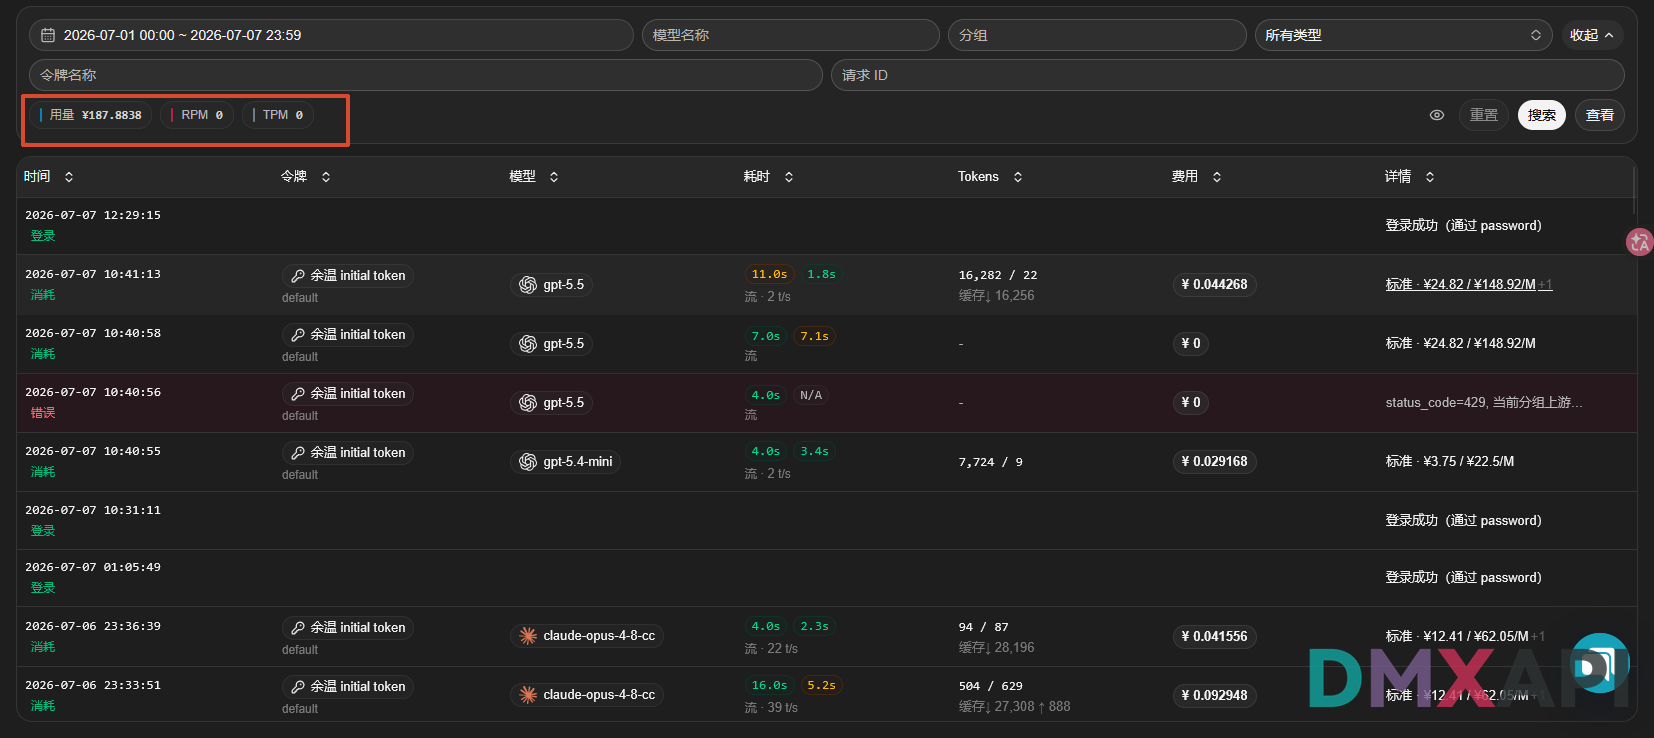
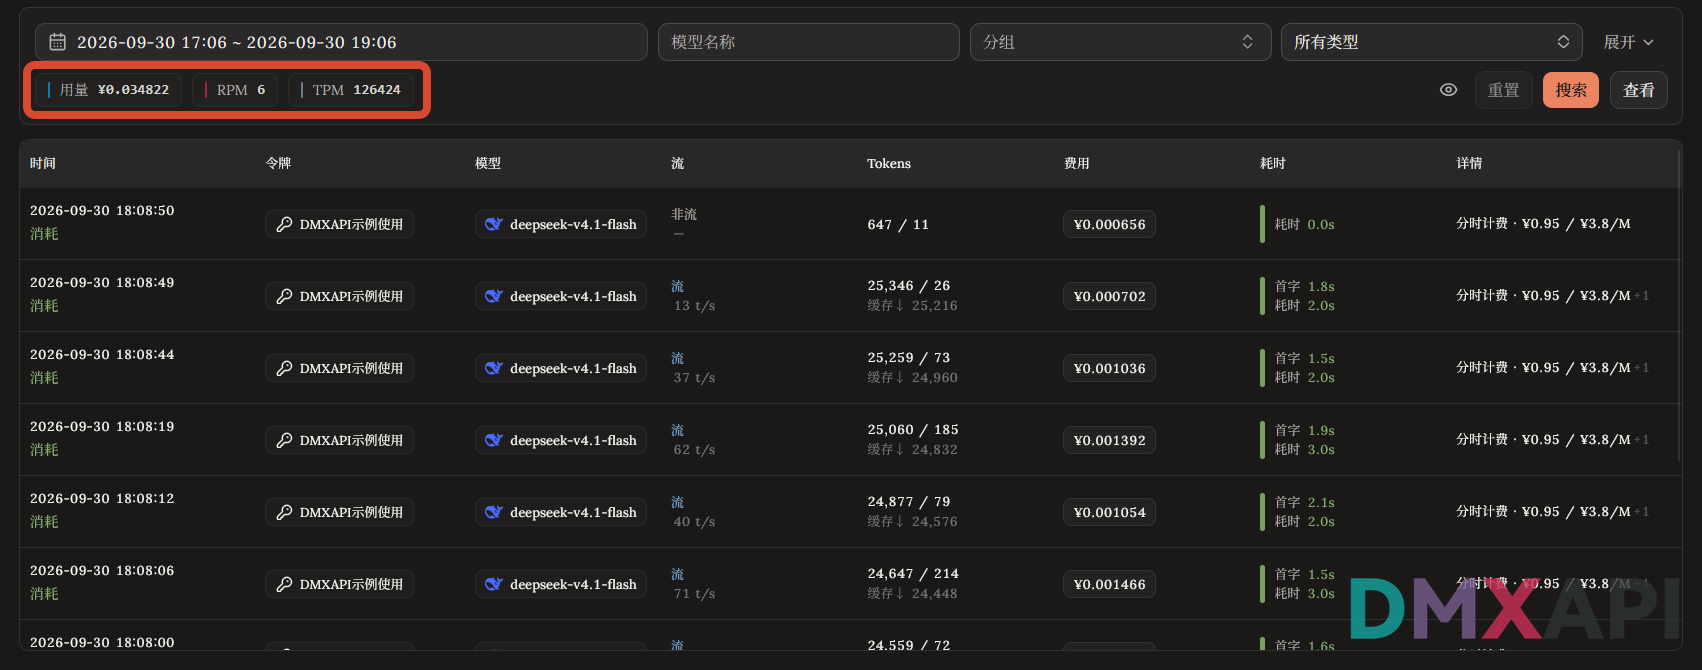
docs: 更新令牌与日志相关接口文档说明
- 统一时间格式去除时区后缀
- 精简重复的认证说明并修正获取路径
- 移除已废弃的 MPM 指标字段
- 补充接口功能描述与分页说明

diff --git a/log_query.md b/log_query.md
@@ -1,5 +1,7 @@
 # 总消耗 日志查询
 
+使用该接口将返回指定时间范围内的 API 总消耗统计，包括总消耗额度、每分钟请求数（RPM）、每分钟 Token 数（TPM）指标。
+
 ## 总消耗查询内容在DMXAPI的位置
 
 ![log_query](img/log_query_01.png)
@@ -11,7 +13,7 @@ https://www.dmxapi.cn/api/log/self/stat
 ```
 
 ::: warning 日志接口认证格式
-`Authorization` 直接填写 `SYSTEM_TOKEN`，不带 `Bearer` 前缀；这与令牌管理接口不同。
+需要填写系统令牌，`Authorization` 直接填写 `SYSTEM_TOKEN`，不带 `Bearer` 前缀；这与令牌管理接口不同。
 :::
 
 ## 代码示例
@@ -21,7 +23,7 @@ https://www.dmxapi.cn/api/log/self/stat
                            API 总消耗统计查询工具
 ================================================================================
 功能描述: 查询 dmxapi.cn 平台的 API 使用统计数据，包括总消耗额度、
-         请求频率(RPM)、Token消耗(TPM)、消息数量(MPM)等指标。
+         请求频率(RPM)、Token消耗(TPM)等指标。
 使用方法:
     1. 配置 SYSTEM_TOKEN 和 USER_ID
     2. 运行脚本: python 总消耗查询.py
@@ -31,7 +33,6 @@ https://www.dmxapi.cn/api/log/self/stat
     - quota : 总消耗额度
     - rpm   : Requests Per Minute  - 每分钟请求数
     - tpm   : Tokens Per Minute    - 每分钟 Token 消耗数
-    - mpm   : Messages Per Minute  - 每分钟消息数
 
 ================================================================================
 """
@@ -48,7 +49,7 @@ BASE_URL = "https://www.dmxapi.cn"
 # 认证信息配置 (请替换为你自己的信息)
 # ------------------------------------------------------------------------------
 # SYSTEM_TOKEN: 系统访问令牌，用于平台管理接口认证
-#               获取方式: 登录 dmxapi.cn -> 个人资料 -> 安全 -> 访问令牌
+#               获取方式: 登录 dmxapi.cn -> 安全与访问 -> 访问令牌
 SYSTEM_TOKEN = "YOUR_SYSTEM_TOKEN"  # 替换为你的系统令牌
 
 # USER_ID: 用户唯一标识
@@ -98,8 +99,7 @@ def get_stat_data(start_timestamp: int, end_timestamp: int, log_type: int = 0,
               {
                   "quota": int,  # 总消耗额度 
                   "rpm": int,    # 每分钟请求数
-                  "tpm": int,    # 每分钟 Token 数
-                  "mpm": int     # 每分钟消息数
+                  "tpm": int     # 每分钟 Token 数
               }
               请求失败时返回空字典 {}
 
@@ -158,7 +158,7 @@ def print_stat(data: dict, start_datetime: datetime, end_datetime: datetime):
 
     Args:
         data (dict):           API 返回的统计数据字典
-                               必须包含: quota, rpm, tpm, mpm 字段
+                               必须包含: quota, rpm, tpm 字段
         start_datetime (datetime): 查询开始时间
         end_datetime (datetime):   查询结束时间
 
@@ -176,7 +176,6 @@ def print_stat(data: dict, start_datetime: datetime, end_datetime: datetime):
         --------------------------------------------------
           每分钟请求数 (RPM): XXX
           每分钟Token数 (TPM): XXXXXXX
-          每分钟消息数 (MPM): XXXXXXX
         ==================================================
     """
     # -------------------------------------------------------------------------
@@ -210,7 +209,6 @@ def print_stat(data: dict, start_datetime: datetime, end_datetime: datetime):
     print("-" * 50)
     print(f"  每分钟请求数 (RPM): {data.get('rpm', 0)}")
     print(f"  每分钟Token数 (TPM): {data.get('tpm', 0)}")
-    print(f"  每分钟消息数 (MPM): {data.get('mpm', 0)}")
     print("=" * 50)
 
 
@@ -320,7 +318,6 @@ if __name__ == "__main__":
 --------------------------------------------------
   每分钟请求数 (RPM): 0
   每分钟Token数 (TPM): 0
-  每分钟消息数 (MPM): 0
 ==================================================
 ```
 

diff --git a/log_query_all.md b/log_query_all.md
@@ -1,6 +1,6 @@
 # 消耗细化查询
 
-获取当前账号指定时间范围内的 API 消费日志，包括令牌、模型、Token、人民币消耗、耗时和请求 ID。请求发送到 DMXAPI 代理平台的管理接口；脚本固仅查用户消费日志并以一次性获取时间范围内的全部记录，不做分页截断，再生成包含汇总表和逐条详情的 TXT 报告。
+获取当前账号指定时间范围内的 API 消费日志，包括令牌、模型、Token、人民币消耗、耗时和请求 ID。请求发送到 DMXAPI 代理平台的管理接口；脚本仅查询用户消费日志，一次性获取时间范围内的全部记录，不做分页截断，并生成包含汇总表和逐条详情的 TXT 报告。
 
 ## 总消耗查询内容在DMXAPI的位置
 
@@ -12,10 +12,8 @@
 https://www.dmxapi.cn/api/log/self
 ```
 
-- 请求方式：`GET`
-
-:::warning 认证格式
-本接口通过 `Authorization: Bearer {SYSTEM_TOKEN}` 认证,`SYSTEM_TOKEN` 的获取方式详见 [系统令牌与用户 ID](security_token_ID.md)。请不要在公开代码、截图、日志或客户端输出中暴露真实令牌，运行代码前必须替换为自己的令牌。
+:::warning 需要系统令牌
+本接口通过 `Authorization: Bearer {SYSTEM_TOKEN}` 认证，需配合 Bearer 前缀使用，`SYSTEM_TOKEN` 的获取方式详见 [系统令牌与用户 ID](security_token_ID.md)。请不要在公开代码、截图、日志或客户端输出中暴露真实令牌，运行代码前必须替换为自己的令牌。
 :::
 
 ## 代码示例
@@ -23,9 +21,9 @@ https://www.dmxapi.cn/api/log/self
 |------|------|------|
 | `today` | 今天 `00:00:00` | 今天 `23:59:59` |
 | `yesterday` | 昨天 `00:00:00` | 昨天 `23:59:59` |
-| `week` | 最近 7 天（含今天）起 `00:00:00` | 今天 `23:59:59` |
-| `month` | 最近 30 天（含今天）起 `00:00:00` | 今天 `23:59:59` |
-| `custom` | `CUSTOM_START_TIME` | `CUSTOM_END_TIME` |
+| `week` | 七天前 `00:00:00` | 今天 `23:59:59` |
+| `month` | 三十天前 `00:00:00` | 今天 `23:59:59` |
+| `custom` | 自定义开始时间 | 自定义结束时间 |
 
 ### 请求代码
 
@@ -42,7 +40,7 @@ import requests
 
 
 # 只需修改这里
-ACCESS_TOKEN = "***********************************************"  # 系统令牌 SYSTEM_TOKEN（需配合 Bearer 前缀使用）
+ACCESS_TOKEN = "***********************************************"  # 系统令牌 SYSTEM_TOKEN
 QUERY_MODE = "month"  # 默认最近 30 天；也可选 today、yesterday、week、custom
 CUSTOM_START_TIME = "2025-01-01 00:00:00"  # custom 模式的开始时间
 CUSTOM_END_TIME = "2025-01-01 23:59:59"  # custom 模式的结束时间
@@ -186,7 +184,7 @@ def build_details(report_logs: list[dict]) -> str:
     for index, item in enumerate(report_logs, start=1):
         created_at = item.get("created_at", 0)
         created_at_detail = (
-            datetime.fromtimestamp(created_at).astimezone().strftime("%Y-%m-%d %H:%M:%S %z")
+            datetime.fromtimestamp(created_at).astimezone().strftime("%Y-%m-%d %H:%M:%S")
             if created_at
             else "无记录"
         )

diff --git a/Search_token.md b/Search_token.md
@@ -1,6 +1,6 @@
 # 搜索令牌
 
-按后台令牌列表中的名称或完整 API Key 查找令牌，并显示完整 API Key、状态、额度和时间信息。名称查询搜索的是**令牌名称**，不是模型名称或模型 ID。
+按后台令牌列表中的名称或完整 API Key 查找令牌，并显示令牌名称、状态、API 密钥（完整 Key）、剩余额度、消耗额度、模型限制、IP 限制、创建时间、最后使用时间、过期时间等令牌信息。名称查询搜索的是**令牌名称**，不是模型名称或模型 ID。
 
 ::: danger 本示例会显示完整 API Key
 脚本会在终端直接输出完整 API Key。请只在可信的本地设备运行，不要截图、分享或写入日志。
@@ -12,9 +12,6 @@
 GET   https://www.dmxapi.cn/api/token/
 POST  https://www.dmxapi.cn/api/token/{token_id}/key
 ```
-
-- 认证：`SYSTEM_TOKEN` + `USER_ID`，详见 [系统令牌与用户 ID](security_token_ID.md)
-- 搜索内容只用于本地筛选
 
 ## 两种查询方式
 
@@ -46,7 +43,7 @@ if not search_value:
 
 def time_text(value):
     return "永不过期" if value == -1 else (
-        datetime.fromtimestamp(value).astimezone().strftime("%Y-%m-%d %H:%M:%S %z")
+        datetime.fromtimestamp(value).astimezone().strftime("%Y-%m-%d %H:%M:%S")
         if value else "无记录"
     )
 
@@ -124,8 +121,8 @@ API 密钥：<此处会显示第一个完整 API Key>
 消耗额度：0.0000 CNY
 模型限制：无限制
 IP 限制：无限制
-创建时间：2026-07-27 10:00:00 +0800
-最后使用时间：2026-07-27 10:15:00 +0800
+创建时间：2026-07-27 10:00:00
+最后使用时间：2026-07-27 10:15:00
 过期时间：永不过期
 ----------------------------------------
 令牌名称：DMXAPI创建测试
@@ -136,9 +133,9 @@ API 密钥：<此处会显示第二个完整 API Key>
 消耗额度：1.0000 CNY
 模型限制：gpt-5.5,claude-sonnet-4-20250514
 IP 限制：203.0.113.10、198.51.100.0/24
-创建时间：2026-07-27 10:05:00 +0800
+创建时间：2026-07-27 10:05:00
 最后使用时间：无记录
-过期时间：2026-08-26 10:05:00 +0800
+过期时间：2026-08-26 10:05:00
 ----------------------------------------
 ```
 

diff --git a/key-yuer.md b/key-yuer.md
@@ -1,6 +1,6 @@
 # 查询令牌余额
 
-填写 DMXAPI API Key、系统访问令牌和用户 ID。脚本会读取令牌并查找匹配项，只显示令牌名称、状态、已用额度、剩余额度。
+填写 DMXAPI API Key、系统访问令牌和用户 ID。脚本会读取令牌并查找匹配项，只显示令牌名称、状态、已用额度、剩余额度和过期时间。
 
 ::: warning 凭据需要属于同一账号
 完整 API Key 只在本地转换为脱敏形式，不会作为查询参数发送。
@@ -9,11 +9,8 @@
 ## 📌 接口地址
 
 ```
-https://www.dmxapi.cn/api/token/
+GET   https://www.dmxapi.cn/api/token/
 ```
-
-- 请求方式：`GET`
-- 认证：`SYSTEM_TOKEN` + `USER_ID`，详见 [系统令牌与用户 ID](security_token_ID.md)
 
 ## Python 示例
 
@@ -35,7 +32,7 @@ headers = {
 
 def time_text(value):
     return "永不过期" if value == -1 else (
-        datetime.fromtimestamp(value).astimezone().strftime("%Y-%m-%d %H:%M:%S %z")
+        datetime.fromtimestamp(value).astimezone().strftime("%Y-%m-%d %H:%M:%S")
         if value else "无记录"
     )
 

diff --git a/Batch_token_deletion.md b/Batch_token_deletion.md
@@ -13,9 +13,6 @@ GET   https://www.dmxapi.cn/api/token/
 POST  https://www.dmxapi.cn/api/token/batch
 ```
 
-- 认证：`SYSTEM_TOKEN` + `USER_ID`，详见 [系统令牌与用户 ID](security_token_ID.md)
-
-
 ## 一、查询要删除的令牌 ID
 
 填写系统访问令牌和用户 ID 后运行：

diff --git a/Create_token.md b/Create_token.md
@@ -5,12 +5,8 @@
 ## 📌 接口地址
 
 ```
-https://www.dmxapi.cn/api/token/
+POST  https://www.dmxapi.cn/api/token/
 ```
-
-- 请求方式：`POST`
-- 认证：`SYSTEM_TOKEN` + `USER_ID`，详见 [系统令牌与用户 ID](security_token_ID.md)
-
 
 ## Python 示例
 

diff --git a/model-list.md b/model-list.md
@@ -1,13 +1,10 @@
 # DMXAPI 模型列表查询接口
-获取模型列表。
+该接口用来查询dmxapi可以使用的模型列表。
 ## 📌 接口地址
 
 ```
 https://www.dmxapi.cn/v1/models
 ```
-
-- 请求方式：`GET`
-
 
 ## 请求示例
 ```python

diff --git a/Model-statistics.md b/Model-statistics.md
@@ -8,7 +8,7 @@ https://www.dmxapi.cn/api/data/self
 ```
 
 :::tip 注意
-系统访问令牌在个人资料 → 安全 → 访问令牌中获取。
+系统访问令牌在个人资料 → 安全与访问 → 访问令牌中获取。
 :::
 
 ## 示例代码
